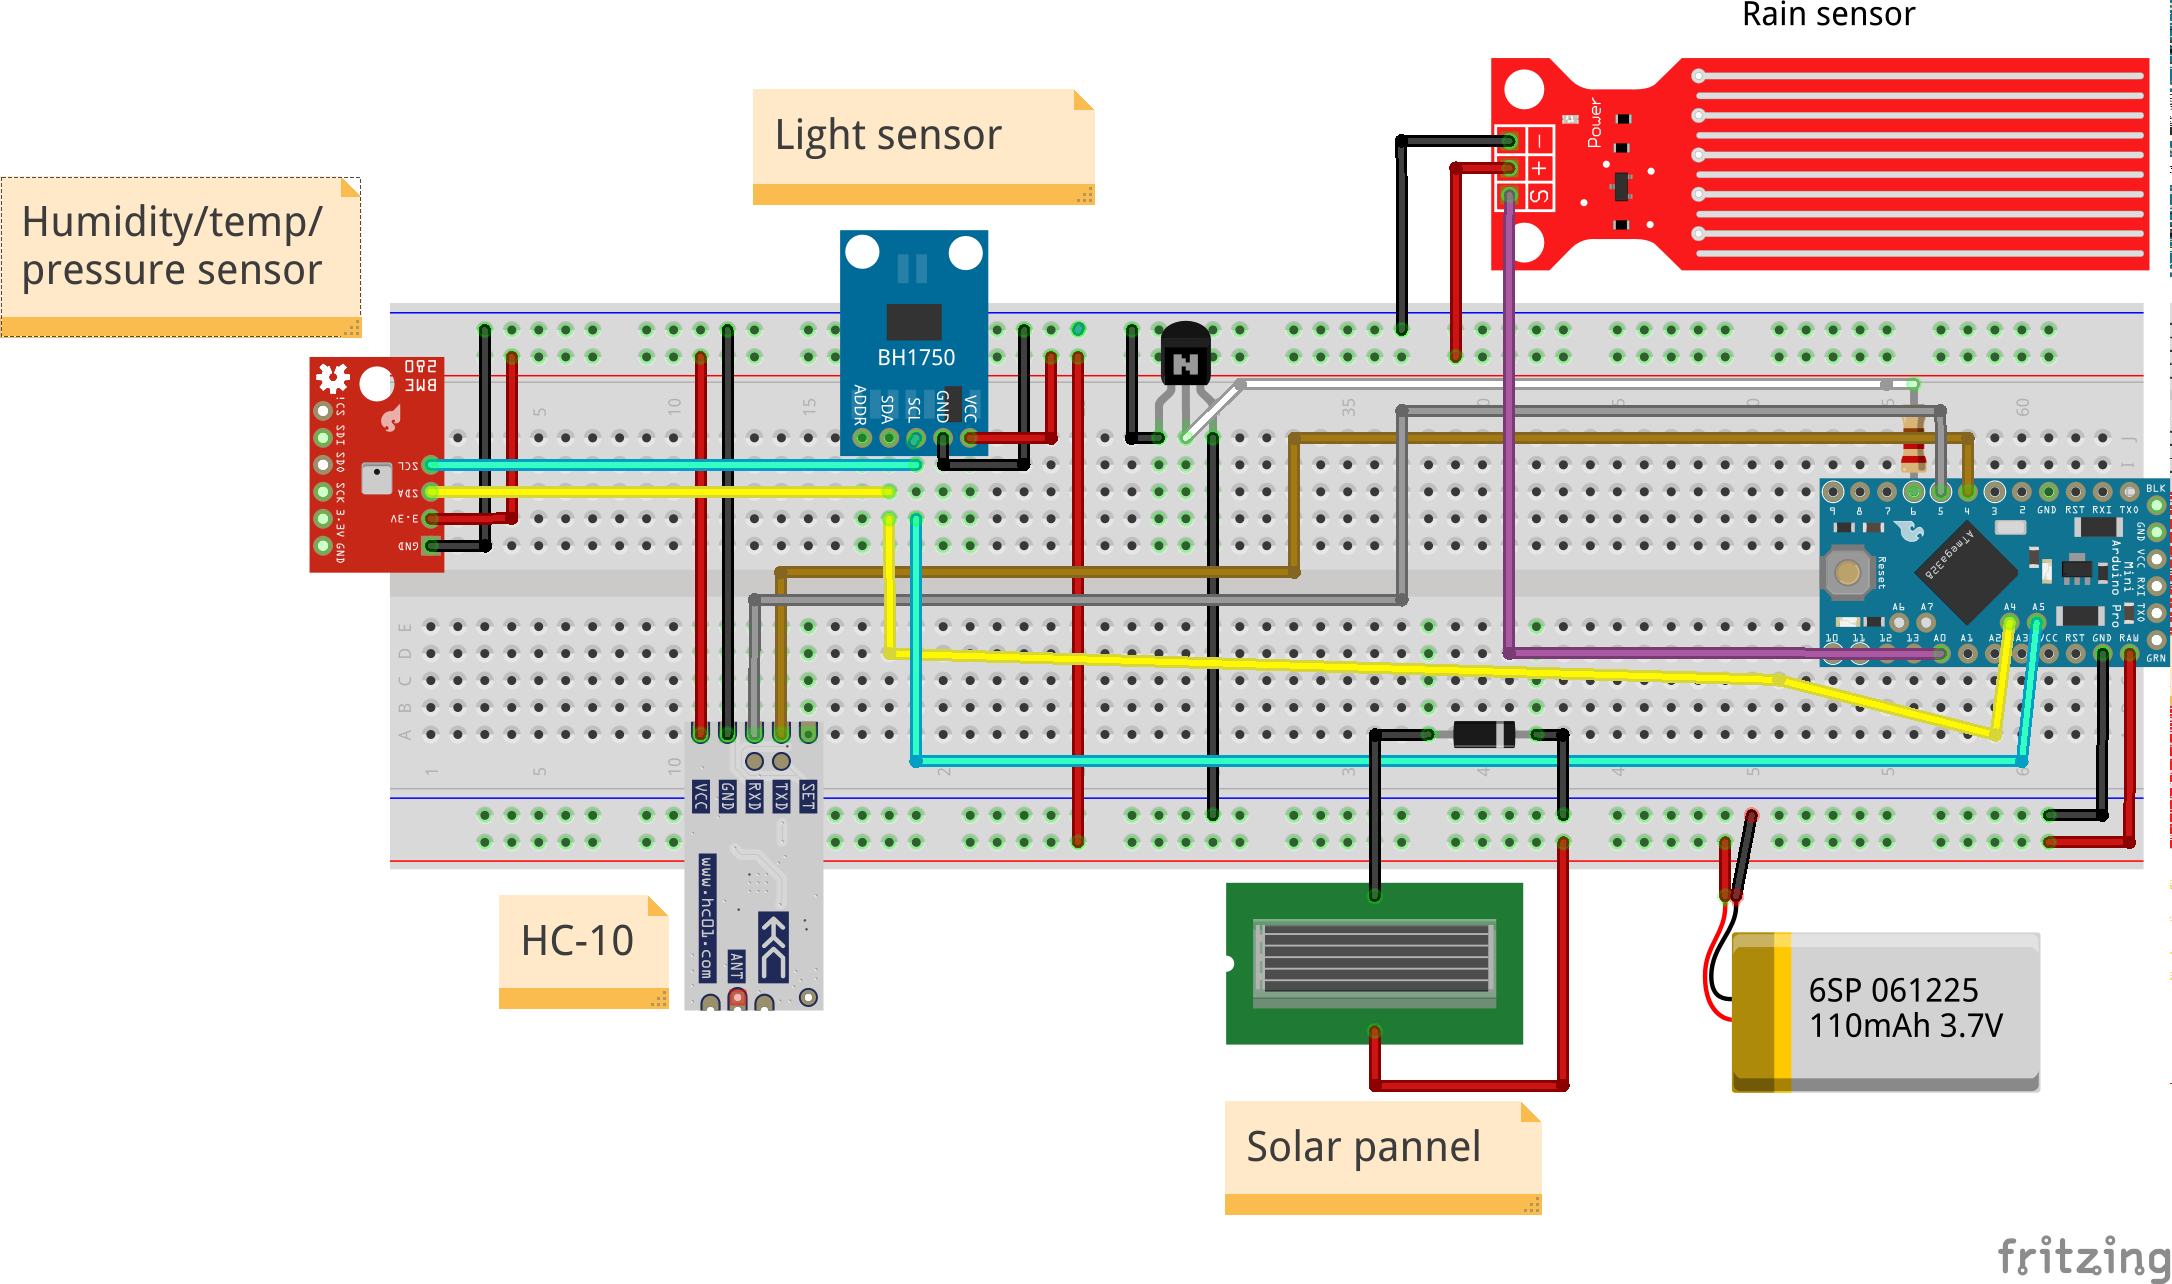
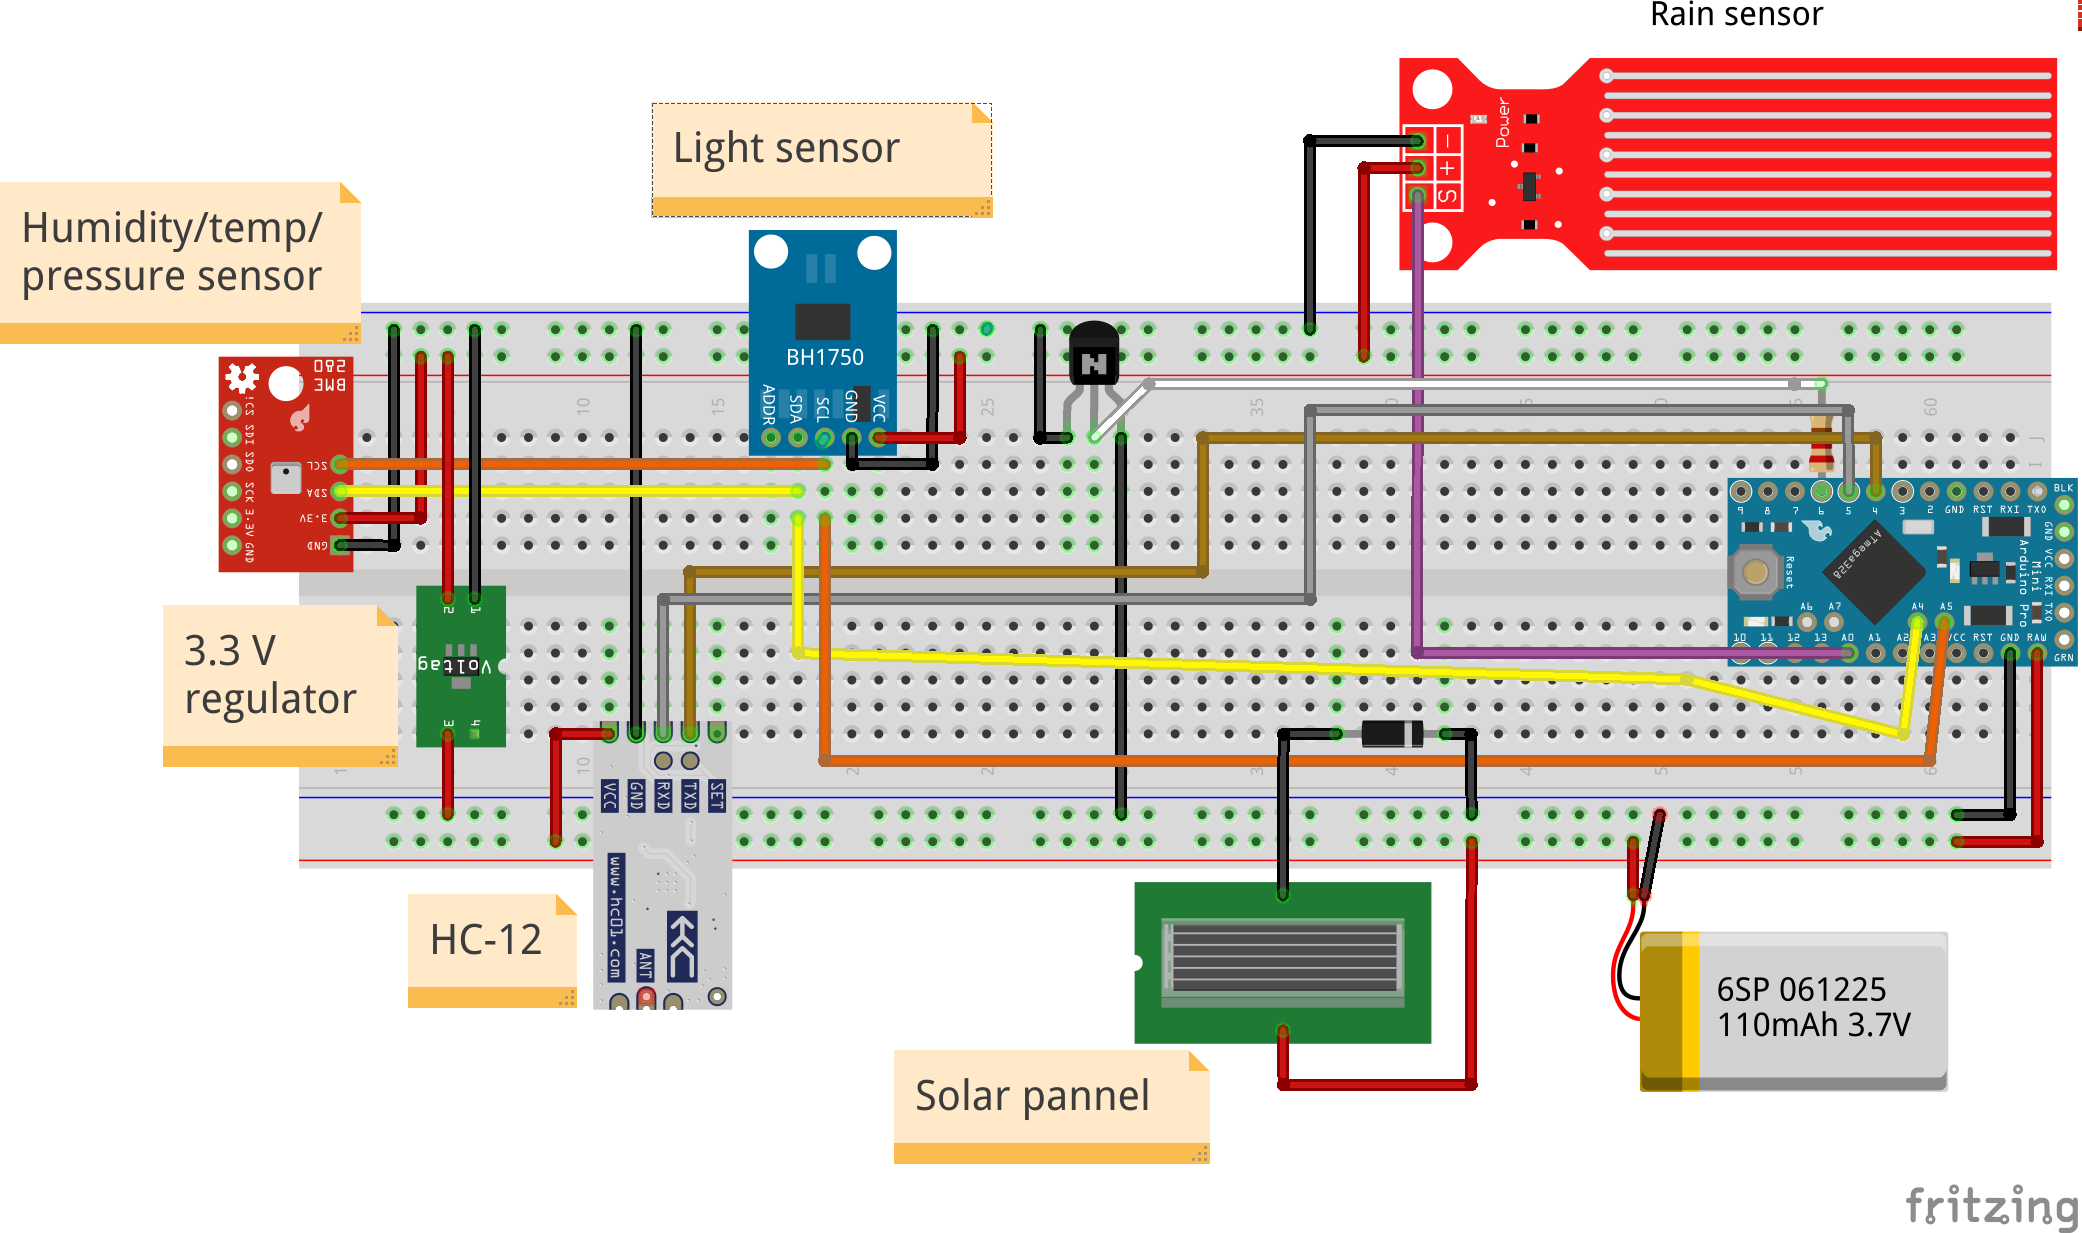
weather statison: added a voltage regulator in the arduino skematic, for the graphs added days behind argument, set graph specific size, added information in readme

diff --git a/weather-predict/graphs.py b/weather-predict/graphs.py
@@ -7,15 +7,20 @@ import matplotlib.pyplot as plt
 from container import Container
 
 
+argparse = argparse.ArgumentParser()
+argparse.add_argument("-d", "--days-behind", required=True, dest="days_behind", type=int,
+                      help="Days behind to be taken into account")
+args = vars(argparse.parse_args())
+
 container = Container()
 datapoints_repository = container.datapoints_repository()
-start_date = datetime.today() - timedelta(days=10)
+start_date = datetime.today() - timedelta(days=args['days_behind'])
 end_date = datetime.today()
 extracted_data = datapoints_repository.get(start_date, end_date)
 dataframe = pandas.DataFrame(extracted_data).set_index('_id')
 
 
-fig, axes = plt.subplots(5)
+fig, axes = plt.subplots(5, figsize=(13, 8))
 dataframe.plot(subplots=True, kind='line', x='date', y='temperature', ax=axes[0])
 dataframe.plot(subplots=True, kind='line', x='date', y='pressure', color='red', ax=axes[1])
 dataframe.plot(subplots=True, kind='line', x='date', y='humidity', color='blue', ax=axes[2])

diff --git a/weather-predict/README.md b/weather-predict/README.md
@@ -33,6 +33,13 @@ You could use anaconda for the installation:
 ````
 conda create --name ml python=3.6.2
 conda activate ml
+pip install -r requirements.txt
+````
+
+Or to have the latest version installed (maby some new features and maby it won't work). Use this with some risk:
+````
+conda create --name ml python=3.6.2
+conda activate ml
 pip install theano
 pip install tensorflow
 pip install keras
@@ -42,7 +49,6 @@ pip install requests
 pip install pymongo
 pip install serial
 conda update --all
-conda activate ml
 ````
 
 Other:
@@ -54,7 +60,7 @@ MongoDb, serial, and default file model locations are in config.py
 
 You can change
 
-- mongoDb host and por
+- mongoDb host and port
 - serial port and baud rate
 - keras model
 - sklearn model
@@ -121,8 +127,16 @@ python predict_batch.py
 
 5. Predict if it will rain in the next few hours
 
+The "datapoints-behind" and "hour-granularity" parameters should be the same as the ones used in the "train.py"
+
 ````
 python predict.py --datapoints-behind 6 --hour-granularity 6
+````
+
+6. Plot the sensors data on some nice graphs (optional)
+
+````
+python graphs --dats-behing nr_of_days_to_see_in_the_past
 ````
 
 # How does it work
